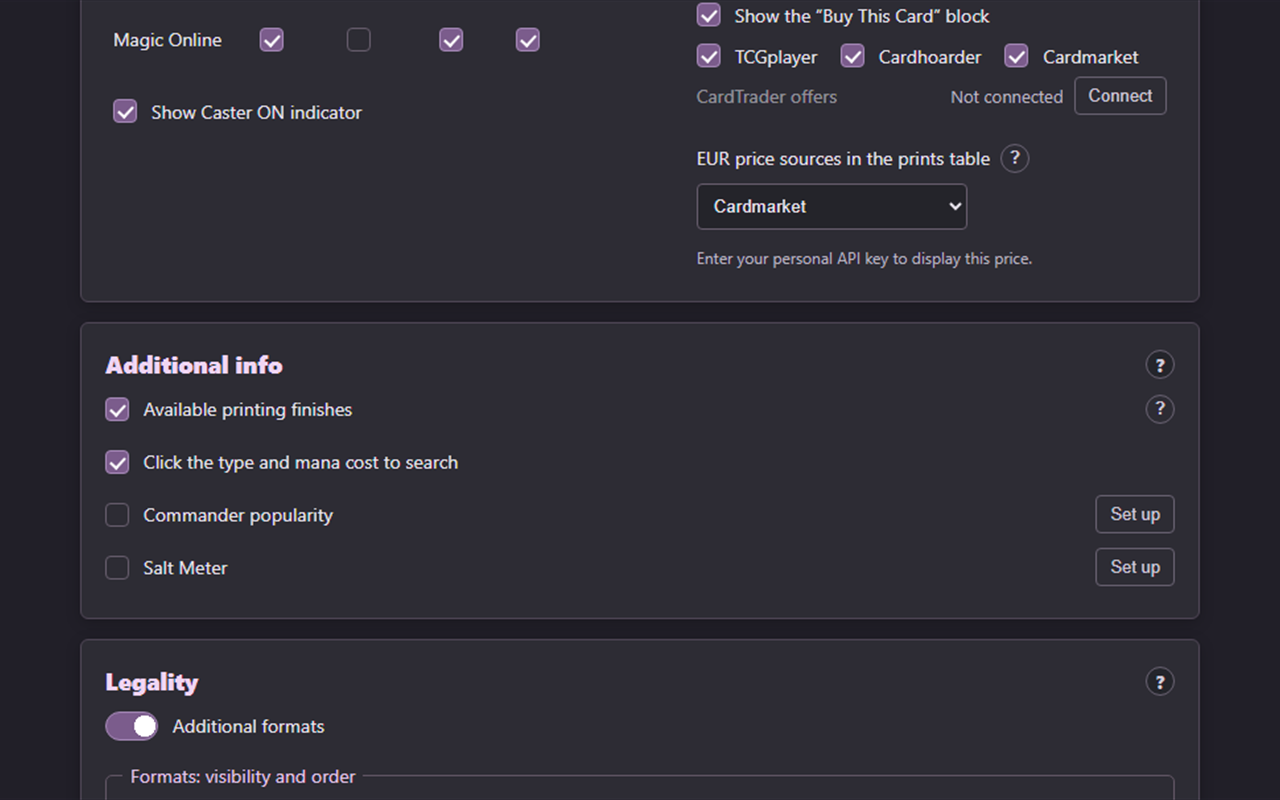
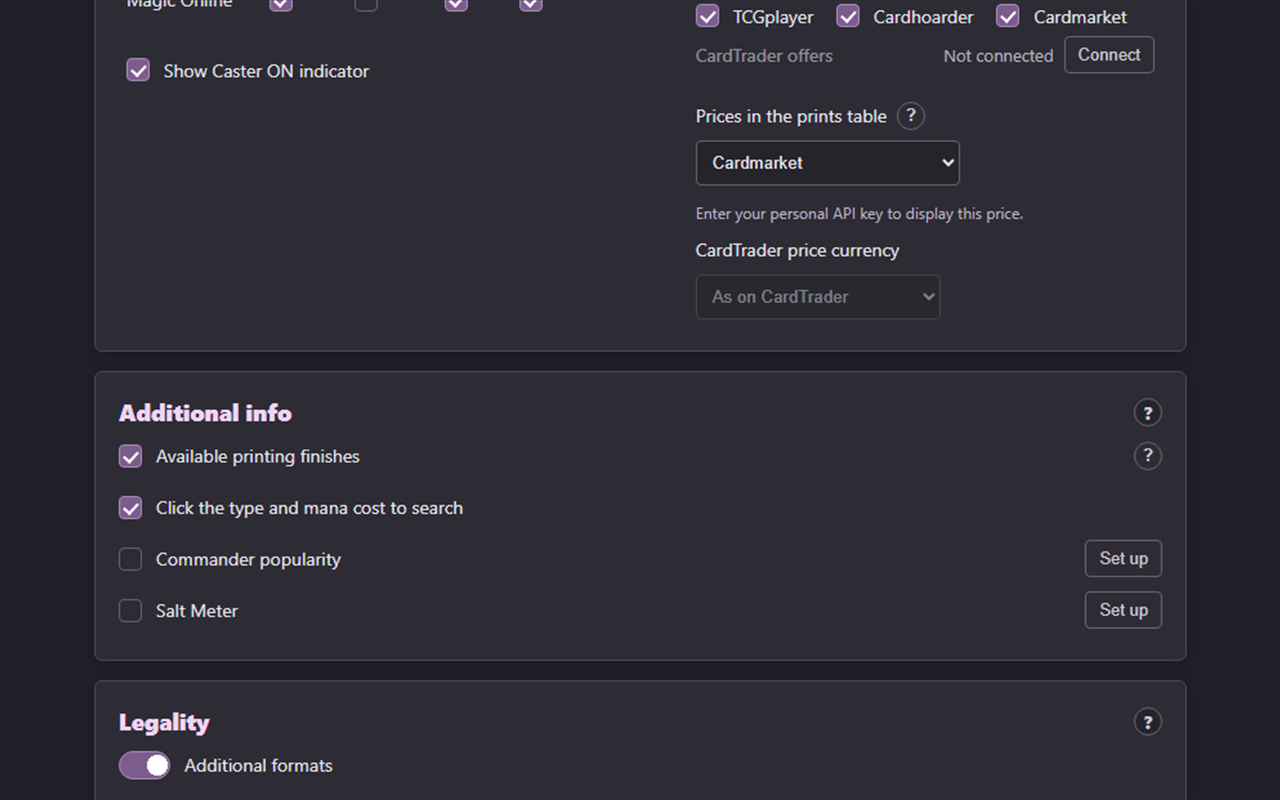
### CardTrader's price is not always in euro

diff --git a/src/ui/options.js b/src/ui/options.js
@@ -11,7 +11,7 @@
 const defaults = {
   settingsLanguage: 'auto',
   clipboard: true, printAddButtons: true, darkTheme: 'auto', tags: true, cardTags: true, artTags: false, relationships: true,
-  finishBadges: true, cardtraderPrices: false, cardtraderToken: '', euroPriceSources: 'cm',
+  finishBadges: true, cardtraderPrices: false, cardtraderToken: '', euroPriceSources: 'cm', cardtraderCurrency: '',
   edhrecUsage: false, edhrecSalt: false, showSaltScale: false, edhrecUsageDisplay: 'both',
   usageColorMetric: 'decks', usageMediumDecks: 50000, usageHighDecks: 100000,
   usageMediumPercent: 1, usageHighPercent: 2.6, saltMediumThreshold: 1, saltHighThreshold: 2,
@@ -38,7 +38,7 @@ const defaults = {
 // one flag, the two category rules carry a list under them, and the four price kinds are
 // told apart by the model rather than by an id. A key-by-key save would have to be kept
 // in step with all three, and there is no test that could tell that it was not.
-const basicFields = ["clipboard", "printAddButtons", "tags", "cardTags", "artTags", "relationships", "finishBadges", "cardtraderPrices", "euroPriceSources", "edhrecUsage", "edhrecSalt", "showSaltScale", "edhrecUsageDisplay", "usageColorMetric", "legalities", "exportFormat", "taggerSearchLinks", "cardSearchLinks", "deckNoPrices", "stackedDeckCards", "deckLegality", "deckCleanUpImprover", "cleanUpLandsInSingleton", "sortEntriesPrimary", "insertSortingHeadings", "edhrecSuggestions", "deckSearch"];
+const basicFields = ["clipboard", "printAddButtons", "tags", "cardTags", "artTags", "relationships", "finishBadges", "cardtraderPrices", "euroPriceSources", "cardtraderCurrency", "edhrecUsage", "edhrecSalt", "showSaltScale", "edhrecUsageDisplay", "usageColorMetric", "legalities", "exportFormat", "taggerSearchLinks", "cardSearchLinks", "deckNoPrices", "stackedDeckCards", "deckLegality", "deckCleanUpImprover", "cleanUpLandsInSingleton", "sortEntriesPrimary", "insertSortingHeadings", "edhrecSuggestions", "deckSearch"];
 // EDHREC and CardTrader are optional features, and so is the access they need.
 // Chrome has a place for exactly this: optional_host_permissions, granted only
 // when the user turns one of them on. Turning a switch off and on again is also
@@ -352,10 +352,11 @@ chrome.storage.local.get(defaults, values => {
       ]
     },
     eursource: {
-      caption: 'Источники EUR-цен в таблице изданий',
+      caption: 'Цены в таблице изданий',
       notes: [
         'Столбец EUR на Scryfall — это цена Cardmarket. Здесь выбирается, чем его заполнять: Cardmarket, CardTrader или обоими — тогда рядом появляется второй столбец. «Не показывать» убирает столбец целиком и снимает галочку EUR в группе «Цены»: это одна настройка с двумя ручками.',
         'Пока галочка EUR снята, список заблокирован: выбирать источник для столбца, которого нет, нечего.',
+        'Цена CardTrader приходит в валюте вашего аккаунта CardTrader, и столбец подписывается этой валютой — а не евро. Параметр валюты у CardTrader нет, поэтому «Валюта цен CardTrader» — предпочтение: если в этой валюте есть предложения, берётся самое дешёвое из них; иначе показывается валюта аккаунта.',
         'Для цен CardTrader нужен личный токен, и задаётся он в строке «Предложения CardTrader» выше, в том же блоке магазинов.',
         'Пока токена нет, варианты CardTrader и «Cardmarket и CardTrader» заблокированы. Чтобы их открыть, нажмите «Подключить» в строке «Предложения CardTrader» выше и сохраните личный токен.',
         'Включать саму галочку «Предложения CardTrader» для этого не обязательно: она добавляет ссылки CardTrader в блок покупки, а столбец работает и без них.'
@@ -935,6 +936,7 @@ for (const group of FILTERS.PRICE_GROUP_NAMES) {
   const euroSource = document.getElementById('euroPriceSources');
   const euroShield = document.getElementById('euroSourceShield');
   const euroHint = document.getElementById('euroSourceHint');
+  const euroCurrency = document.getElementById('cardtraderCurrency');
   const euroOptions = [...euroSource.options];
   const paintEuro = () => {
     const on = filters.prices.eur !== false;
@@ -950,6 +952,10 @@ for (const group of FILTERS.PRICE_GROUP_NAMES) {
       if (option.value === 'ct' || option.value === 'both') option.disabled = !connected;
     }
     euroHint.hidden = connected || !on;
+    // The currency only means something for a CardTrader column, so it is out of reach while the
+    // source is Cardmarket or "show nothing" — and while there is no token to ask with.
+    const usesCardTrader = euroSource.value === 'ct' || euroSource.value === 'both';
+    euroCurrency.disabled = !on || !connected || !usesCardTrader;
     // A stored value from before the token was removed cannot stand: fall back to Cardmarket,
     // the only source this page can pick without inventing a preference.
     if (!connected && (euroSource.value === 'ct' || euroSource.value === 'both')) {

diff --git a/src/card-page/prices.js b/src/card-page/prices.js
@@ -53,6 +53,10 @@
     if (!id || !links) return;
     const sources = ['cm','ct','both','none'].includes(settings.euroPriceSources) ? settings.euroPriceSources : 'cm';
     const showTable = sources === 'ct' || sources === 'both';
+    // Which currency the CardTrader column asks for. Empty means "as the account", which is what
+    // CardTrader's own API answers in; a code is a preference the worker honours when an offer in
+    // it exists, because the endpoint has no currency parameter of its own.
+    const wantedCurrency = /^[A-Z]{3}$/.test(settings.cardtraderCurrency || '') ? settings.cardtraderCurrency : '';
     const table = document.querySelector('#main .prints > .prints-table');
     const eurIndex = [...(table?.querySelectorAll('thead th') || [])].findIndex(th => th.textContent.trim().toUpperCase() === 'EUR');
     if (table && eurIndex >= 0) {
@@ -72,15 +76,18 @@
       }
       if (sources === 'both') {
         heading.classList.add('stk-cm-price-header');
-        heading.replaceChildren(priceHeading('cardmarket'));
+        heading.replaceChildren(priceHeading('cardmarket', 'EUR'));
         heading.title = 'Cardmarket prices in EUR';
       }
       if (showTable) {
         const th = document.createElement('th');
         th.className = 'stk-ct-price-header';
-        th.title = 'CardTrader: lowest EUR offer for this printing';
-        th.append(priceHeading('cardtrader'));
+        th.title = 'CardTrader: lowest offer for this printing';
+        th.append(priceHeading('cardtrader', wantedCurrency));
         heading.after(th);
+        // The heading's currency code, filled in when the first offer is answered if the setting
+        // says "as the account" and the wanted code is therefore empty.
+        const ctCode = () => th.querySelector('.stk-price-code');
         const rows = [...table.querySelectorAll('tbody tr')];
         const queue = [];
         for (const row of rows) {
@@ -106,20 +113,26 @@
         const fetchPrint = async print => {
           try {
             const result = await request({ type: 'cardtrader', id: print.id, set: print.set });
-            const price = result.nonfoil?.currency === 'EUR' ? result.nonfoil : result.foil?.currency === 'EUR' ? result.foil : null;
-            // A CardTrader account in another currency answers with a real
-            // price in that currency, and the EUR column cannot use it. For the
-            // printing being viewed that is the same as having nothing to show,
-            // so the native EUR column comes back rather than leaving an empty
-            // one where a price was expected.
+            // The cheapest offer, in whichever currency it came back in — nonfoil preferred, the
+            // foil one when that is all there is. It used to insist on EUR, which is an account's
+            // own currency rather than a fact about CardTrader, so an account in any other
+            // currency showed nothing at all.
+            const price = result.nonfoil || result.foil || null;
+            // With the source set to CardTrader alone the column replaces Scryfall's euro one, so
+            // a printing with no offer at all would be an empty cell where a price was expected:
+            // the native column comes back for that one.
             if (print.id === id && sources === 'ct' && (!result.available || !price)) showEurFallback();
             if (price) {
+              // The heading carries the currency, which is only known once the first offer
+              // arrives when the setting says "as the account".
+              const code = ctCode();
+              if (code && !code.textContent) code.textContent = price.currency;
               const a = document.createElement('a');
               a.href = result.url;
               a.target = '_blank';
               a.rel = 'noopener noreferrer';
               a.title = 'Lowest CardTrader offer; condition and language may vary';
-              a.textContent = new Intl.NumberFormat('en-IE', { style:'currency', currency:'EUR' }).format(price.cents / 100);
+              a.textContent = new Intl.NumberFormat(undefined, { style:'currency', currency: price.currency }).format(price.cents / 100);
               print.cell.append(a);
             }
           } catch {
@@ -195,7 +208,7 @@
   // mark is used as a CSS mask, which means what shows is the alpha of their
   // file while the colour is `currentColor` — right on either theme without
   // having to know which theme it is on, and never the wrong shade.
-  function priceHeading(provider) {
+  function priceHeading(provider, code) {
     const wrapper = document.createElement('span');
     wrapper.className = 'stk-price-heading';
     const logo = brandLogo(provider);
@@ -215,7 +228,12 @@
       icon.alt = '';
       wrapper.append(icon);
     }
-    wrapper.append(document.createTextNode('EUR'));
+    // The currency code, written into its own span so CardTrader's heading can be filled in once
+    // the first offer arrives — the account's currency is not known before a request is answered.
+    const label = document.createElement('span');
+    label.className = 'stk-price-code';
+    label.textContent = code || '';
+    wrapper.append(label);
     return wrapper;
   }
 

diff --git a/src/background/worker.js b/src/background/worker.js
@@ -54,7 +54,7 @@ async function cardTrader(path, token) {
     headers: { Authorization: `Bearer ${token}`, Accept: 'application/json' }, credentials: 'omit'
   });
 }
-async function cardTraderPrices(id, set, token) {
+async function cardTraderPrices(id, set, token, wanted = '') {
   const expansions = await traderMemo('trader:expansions', 24 * 3600000, () => cardTrader('expansions', token));
   const expansion = expansions.find(item => item.game_id === 1 && item.code?.toLowerCase() === set.toLowerCase());
   if (!expansion) return { available: false };
@@ -66,12 +66,19 @@ async function cardTraderPrices(id, set, token) {
     () => cardTrader(`marketplace/products?blueprint_id=${blueprint.id}`, token));
   const products = Array.isArray(raw) ? raw : Array.isArray(raw?.data) ? raw.data :
     Object.values(raw || {}).flatMap(value => Array.isArray(value) ? value : []);
+  // The price the API returns is in the account's own currency — CardTrader's docs say so, and
+  // the endpoint has no currency parameter — so a wanted currency is a preference rather than a
+  // request: the cheapest offer in it is used when one exists, and the account's own currency is
+  // the answer otherwise. Requiring a currency with no offers in it would leave the column empty
+  // on an account that never lists one.
+  const wantedCode = /^[A-Z]{3}$/.test(wanted) ? wanted : '';
   const cheapest = { foil: null, nonfoil: null };
   for (const product of products) {
     if (product.blueprint_id !== blueprint.id || product.quantity <= 0) continue;
     const cents = product.price?.cents ?? product.price_cents;
     const currency = product.price?.currency ?? product.price_currency;
     if (!Number.isFinite(cents) || !/^[A-Z]{3}$/.test(currency || '')) continue;
+    if (wantedCode && currency !== wantedCode) continue;
     const kind = product.properties_hash?.mtg_foil === true || product.properties?.mtg_foil === true ? 'foil' : 'nonfoil';
     if (!cheapest[kind] || (cheapest[kind].currency === currency && cents < cheapest[kind].cents)) {
       cheapest[kind] = { cents, currency };
@@ -637,9 +644,9 @@ chrome.runtime.onMessage.addListener((message, sender, respond) => {
     if (message.type === 'cardtrader') {
       const id = String(message.id), set = String(message.set);
       if (!/^[0-9a-f-]{36}$/.test(id) || !/^[a-z0-9_-]{1,16}$/i.test(set)) throw new Error('Invalid card');
-      const stored = await chrome.storage.local.get(['cardtraderToken','cardtraderPrices','euroPriceSources']);
+      const stored = await chrome.storage.local.get(['cardtraderToken','cardtraderPrices','euroPriceSources','cardtraderCurrency']);
       if ((!stored.cardtraderPrices && !['ct','both'].includes(stored.euroPriceSources)) || !stored.cardtraderToken) throw new Error('CardTrader is not configured');
-      return cardTraderPrices(id, set, stored.cardtraderToken);
+      return cardTraderPrices(id, set, stored.cardtraderToken, stored.cardtraderCurrency);
     }
     if (message.type === "preview") {
       if (!/^(oracleid|illustrationid)$/.test(String(message.kind)) ||

diff --git a/src/core/i18n.js b/src/core/i18n.js
@@ -121,7 +121,10 @@ const resolveSettingsLanguage = value => {
     'Включать саму галочку «Предложения CardTrader» для этого не обязательно: она добавляет ссылки CardTrader в блок покупки, а столбец работает и без них.': 'Ticking “CardTrader offers” itself is not required for that: it adds CardTrader links to the buy block, and the column works without them.',
     'Введите личный API-ключ для отображения этой цены.': 'Enter your personal API key to display this price.',
     'Пока токена нет, варианты CardTrader и «Cardmarket и CardTrader» заблокированы. Чтобы их открыть, нажмите «Подключить» в строке «Предложения CardTrader» выше и сохраните личный токен.': 'While there is no token, the CardTrader and “Cardmarket and CardTrader” choices are blocked. To unlock them, press “Connect” in the “CardTrader offers” row above and save a personal token.',
-    'Источники EUR-цен в таблице изданий': 'EUR price sources in the prints table',
+    'Цены в таблице изданий': 'Prices in the prints table',
+    'Валюта цен CardTrader': 'CardTrader price currency',
+    'Как на CardTrader': 'As on CardTrader',
+    'Цена CardTrader приходит в валюте вашего аккаунта CardTrader, и столбец подписывается этой валютой — а не евро. Параметр валюты у CardTrader нет, поэтому «Валюта цен CardTrader» — предпочтение: если в этой валюте есть предложения, берётся самое дешёвое из них; иначе показывается валюта аккаунта.': 'CardTrader returns the price in your CardTrader account’s currency, and the column is headed with that currency — not with euro. CardTrader has no currency parameter, so “CardTrader price currency” is a preference: when offers exist in that currency the cheapest of them is used, and the account’s currency is shown otherwise.',
     'Что это': 'What this does',
     'Дробь и процент': 'Fraction and percentage', 'Только дробь': 'Fraction only', 'Только процент': 'Percentage only',
     'Количеству колод': 'Deck count', 'Доле подходящих колод': 'Eligible deck percentage',

diff --git a/src/ui/options.html b/src/ui/options.html
@@ -127,7 +127,7 @@
      a dead control. -->
 <div class="price-source">
 <div class="price-source-head">
-<label class="pair-caption" for="euroPriceSources">Источники EUR-цен в таблице изданий</label>
+<label class="pair-caption" for="euroPriceSources">Цены в таблице изданий</label>
 <button type="button" class="feature-help" data-help="eursource" aria-haspopup="dialog" title="Что это">?</button>
 </div>
 <div class="price-source-field">
@@ -135,6 +135,8 @@
 <button type="button" class="price-source-shield" id="euroSourceShield" hidden></button>
 </div>
 <p class="hint" id="euroSourceHint" hidden>Введите личный API-ключ для отображения этой цены.</p>
+<label for="cardtraderCurrency">Валюта цен CardTrader</label>
+<select id="cardtraderCurrency"><option value="">Как на CardTrader</option><option value="EUR">EUR</option><option value="USD">USD</option><option value="GBP">GBP</option><option value="JPY">JPY</option><option value="CAD">CAD</option><option value="AUD">AUD</option><option value="CHF">CHF</option><option value="PLN">PLN</option><option value="SEK">SEK</option><option value="NOK">NOK</option><option value="DKK">DKK</option><option value="CZK">CZK</option></select>
 </div>
 </div>
 </div>

diff --git a/src/card-page/core.js b/src/card-page/core.js
@@ -64,6 +64,7 @@
     clipboard: true, tags: true, cardTags: true, artTags: false, relationships: true,
     printAddButtons: true,
     legalities: true, finishBadges: true, cardtraderPrices: false, euroPriceSources: 'cm',
+    cardtraderCurrency: '',
     edhrecUsage: false, edhrecSalt: false, showSaltScale: false, edhrecUsageDisplay: 'both',
     usageColorMetric: 'decks', usageMediumDecks: 50000, usageHighDecks: 100000,
     usageMediumPercent: 1, usageHighPercent: 2.6, saltMediumThreshold: 1, saltHighThreshold: 2,

diff --git a/docs/CHROME_WEB_STORE_LISTING.md b/docs/CHROME_WEB_STORE_LISTING.md
@@ -1,4 +1,4 @@
-# Chrome Web Store listing — Scryfall Toolkit 2.1.0
+# Chrome Web Store listing — Scryfall Toolkit 2.2.0
 
 Everything here is written from the shipped code, so that the answers given in the store
 console match what the extension actually does. Where a field needs a decision from the
@@ -261,12 +261,12 @@ Ready in `store-assets/`, each exactly **1280×800** (PNG), in English:
 | --- | --- |
 | `store-assets/01-settings-01-of-05.png` | the header, General (settings language, theme), and the start of Tags |
 | `store-assets/02-settings-02-of-05.png` | the end of Tags, CardClip with its export format, and the start of Visibility |
-| `store-assets/03-settings-03-of-05.png` | the rest of Visibility — the prices, the shop block, CardTrader unconnected, and the EUR source with the personal key it needs — Additional info as a list of one-line features, and the start of Legality |
+| `store-assets/03-settings-03-of-05.png` | the rest of Visibility - the prices, the shop block, CardTrader unconnected, and the price source with the personal key it needs and the currency its column is headed with - Additional info as a list of one-line features, and the start of Legality |
 | `store-assets/04-settings-04-of-05.png` | the format grid, and the start of Scryfall Deckbuilder with its switches on |
 | `store-assets/05-settings-05-of-05.png` | the rest of Scryfall Deckbuilder (EDHREC suggestions asking for its permission), the collapsed **Diagnostics** section, and Credits and third-party projects |
 
 All five come from one real capture of the settings page
-(`store-assets/settings-page-full.png`, 1280×3030), so nothing is repeated or cropped
+(`store-assets/settings-page-full.png`, 1280×3104), so nothing is repeated or cropped
 away between them. Each tile is scaled uniformly to 800 rows and the margins continue
 the page's own colour, so no screenshot is stretched.
 
@@ -478,7 +478,7 @@ box per host, use the matching line:
 > request URL when they are on. edhrec.com — optional; used only by the deck editor's
 > suggestion feature, which sends the commander and the whole deck list to EDHREC's own
 > recommendation endpoint when its button is pressed. api.cardtrader.com — optional;
-> with the user's own token, the exact printing and its cheapest EUR offers. Content
+> with the user's own token, the exact printing and its cheapest offers, in the account's currency. Content
 > scripts run only on scryfall.com, www.scryfall.com and tagger.scryfall.com.
 
 Per host, if the form asks separately:
@@ -490,7 +490,7 @@ Per host, if the form asks separately:
 | `tagger.scryfall.com` | Core feature. A POST to `graphql/registry` carrying the set code and collector number of the card the user is viewing, for card and art tags and related cards. |
 | `json.edhrec.com` | Optional permission. The EDHREC indicators send the card name as part of the request URL to read its public JSON when they are on. |
 | `edhrec.com` | Optional permission, used only by the deck editor's EDHREC suggestions. When its button is pressed, it sends the commander and the whole deck list — every card with its count — to EDHREC's own recommendation endpoint. No account, no other decks, no collection. |
-| `api.cardtrader.com` | Optional feature, off by default. With the user's own personal access token, looks up the exact printing and its cheapest listed EUR offers. The token is sent only to this host. |
+| `api.cardtrader.com` | Optional feature, off by default. With the user's own personal access token, looks up the exact printing and its cheapest listed offers, in the account's own currency. The token is sent only to this host. |
 
 **Remote code — answer "No".** If the form still asks for text:
 

diff --git a/README.md b/README.md
@@ -72,7 +72,7 @@ The toolbar button opens a small popup with the four switches you reach for most
 | **General** | Settings language — for the settings page and the popup; the controls the extension adds to Scryfall and Tagger are always in English — and theme |
 | **Tags** | Card/art tags, related cards, the Tagger link on search results |
 | **CardClip** | The clipboard, the copy format, the per-printing `+` |
-| **Visibility** | two columns: on the left a table with one row per platform — Paper, Arena, Magic Online — and a column per place: the platform's own **Show** box and its own boxes for the **Prints table**, **Search** and **Sets list**, with the Caster marker on its own under the table; and on the right, prices (USD, TIX, EUR), store links (TCGplayer, Cardhoarder, Cardmarket) under a switch for the whole **Buy This Card** block, CardTrader offers, and the EUR price source. Everything ticked means shown, and turning a platform — or the store block — off keeps the choices under it and brings them back; the **EUR** box and the EUR-source dropdown are two views of the same column, kept in step. CardTrader's prices need a personal API key: until one is saved, its choices in the EUR-source dropdown are blocked and the field says so |
+| **Visibility** | two columns: on the left a table with one row per platform - Paper, Arena, Magic Online - and a column per place: the platform's own **Show** box and its own boxes for the **Prints table**, **Search** and **Sets list**, with the Caster marker on its own under the table; and on the right, prices (USD, TIX, EUR), store links (TCGplayer, Cardhoarder, Cardmarket) under a switch for the whole **Buy This Card** block, CardTrader offers, and the price source. Everything ticked means shown, and turning a platform - or the store block - off keeps the choices under it and brings them back; the **EUR** box and the price-source dropdown are two views of the same column, kept in step. CardTrader's prices need a personal API key: until one is saved, its choices in the dropdown are blocked and the field says so; its column is headed with the currency the account answers in, and **CardTrader price currency** can prefer another |
 | **Additional info** | A list of one-line features, each with its own switch and its settings behind a **Set up** button: the finish column, type and mana search, Commander popularity and Salt Meter |
 | **Legality** | The extra formats and their order |
 | **Scryfall Deckbuilder** | A list of one-line features, each with its own switch and a **?** for what it does and what it does not: No Prices, the token list, stacked cards, a per-card Commander check, EDHREC suggestions, deck search, and the improved cleanup — whose settings are behind its own **Set up**, collapsed until asked for |

diff --git a/docs/FEATURES.md b/docs/FEATURES.md
@@ -141,11 +141,14 @@ the click and explain nothing. Setting the dropdown to **show nothing** clears t
 other choice ticks it back. The shop box is a different question: hiding Cardmarket hides its links
 and not the column. CardTrader needs a personal token for the column, set in the CardTrader row
 above it, and the row's own switch is not required for it: that switch is about the buy-block links.
+CardTrader's own column is headed with the currency its prices come in — its API answers in the
+account's currency and has no currency parameter — and **CardTrader price currency**, under the
+source dropdown, prefers another one when offers in it exist.
 
 **CardTrader prices.** With your own personal API token, the extension matches Scryfall
 print IDs against CardTrader blueprints, links the exact printing and shows the cheapest
-listed foil and nonfoil offers. Its EUR column fills gradually to respect the marketplace
-rate limit, and only EUR offers appear. If CardTrader fails, a CardTrader-only table
+listed foil and nonfoil offers. Its column fills gradually to respect the marketplace
+rate limit, and it is headed with the currency the account's offers come in. If CardTrader fails, a CardTrader-only table
 restores the native Cardmarket column unless the reader has hidden Cardmarket. Listed prices
 exclude shipping and do not guarantee language, condition or stock. The token is stored locally
 and sent only to `api.cardtrader.com`. On the settings page the feature cannot be switched on

diff --git a/CHANGELOG.md b/CHANGELOG.md
@@ -8,6 +8,17 @@ All releases: <https://github.com/Solomag/scryfall-toolkit/releases>
 
 ---
 
+### 2.2.0 - CardTrader's price is not always in euro
+
+CardTrader answers with each offer's price in the account's own currency, and there is no
+currency parameter to ask it for another one - so an account that is not in euro was shown a euro
+heading over a number that was not euro, or, because the column insisted on EUR, shown nothing at
+all. The column is now headed with the currency the offers actually come in, and a new
+**CardTrader price currency** choice under the source dropdown prefers another one when offers in
+it exist, falling back to the account's currency when they do not. The setting is called
+**Prices in the prints table** rather than "EUR price sources", because CardTrader's number is not
+a euro price.
+
 ### 2.1.0 - the site in English, the deck tools on, and a key before CardTrader
 
 The settings language is the settings page's own again. It had been merged with the language of
